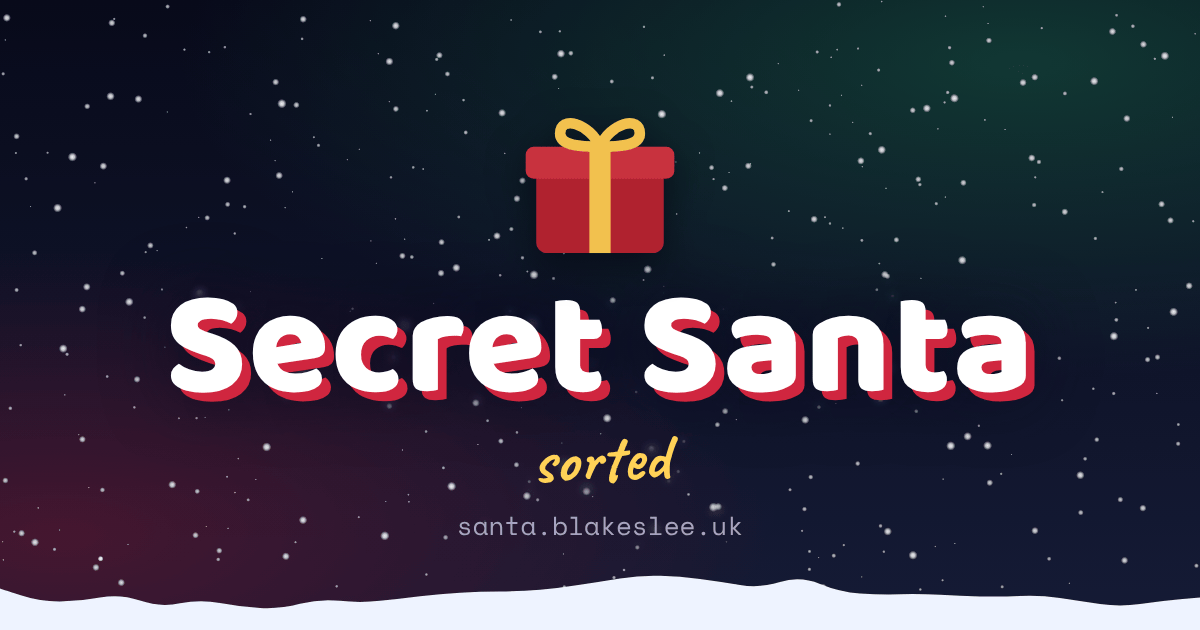
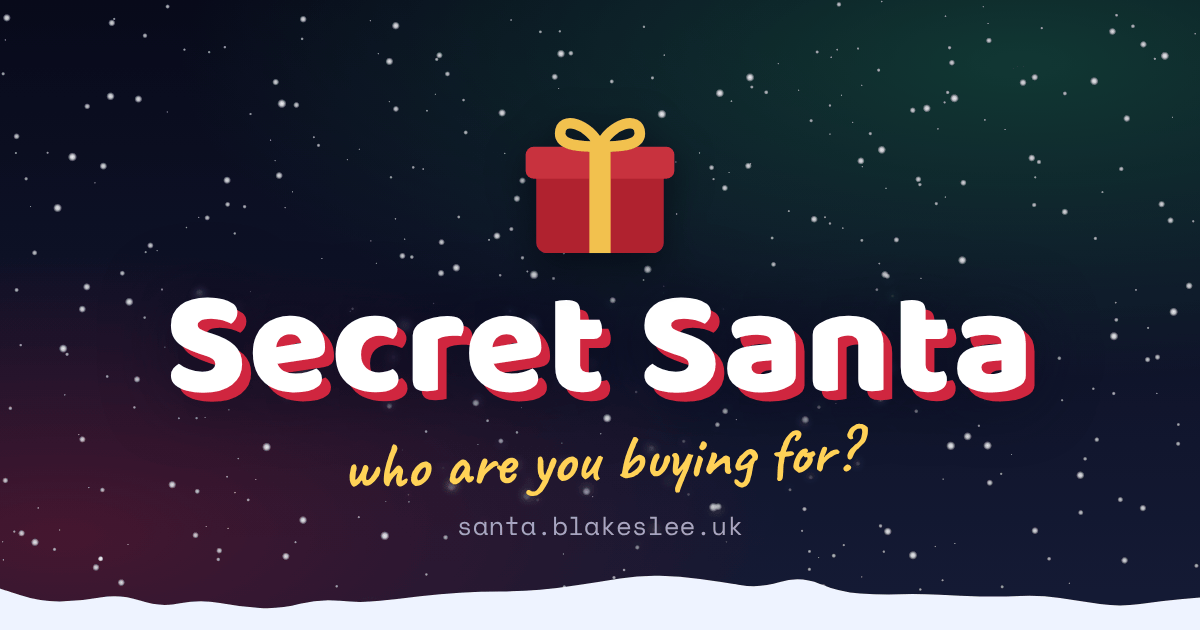
Ask who you're buying for on the link-preview image
Most people who see the card are opening a group's link, which gets the
same one, so it speaks to them rather than carrying the tagline, which
didn't stand on its own under the title. iMessage shows no description,
so there it's the only thing that says what the link's for.

Changed region(s): [[0.2775, 0.6635, 0.74, 0.7841]]

diff --git a/index.html b/index.html
@@ -16,7 +16,7 @@
     <meta property="og:image" content="https://santa.blakeslee.uk/og-image.png" />
     <meta property="og:image:width" content="1200" />
     <meta property="og:image:height" content="630" />
-    <meta property="og:image:alt" content="Secret Santa, sorted: a present on a snowy night" />
+    <meta property="og:image:alt" content="Secret Santa: who are you buying for? A present on a snowy night" />
     <meta name="twitter:card" content="summary_large_image" />
   </head>
   <body>

diff --git a/scripts/og-image.html b/scripts/og-image.html
@@ -123,7 +123,7 @@
 <div class="card">
     <img class="present" src="../public/favicon.svg" alt=""/>
     <h1>Secret Santa</h1>
-    <p>sorted</p>
+    <p>who are you buying for?</p>
 </div>
 <span class="domain">santa.blakeslee.uk</span>
 <svg id="ground" viewBox="0 0 1200 70" preserveAspectRatio="none" aria-hidden="true">
